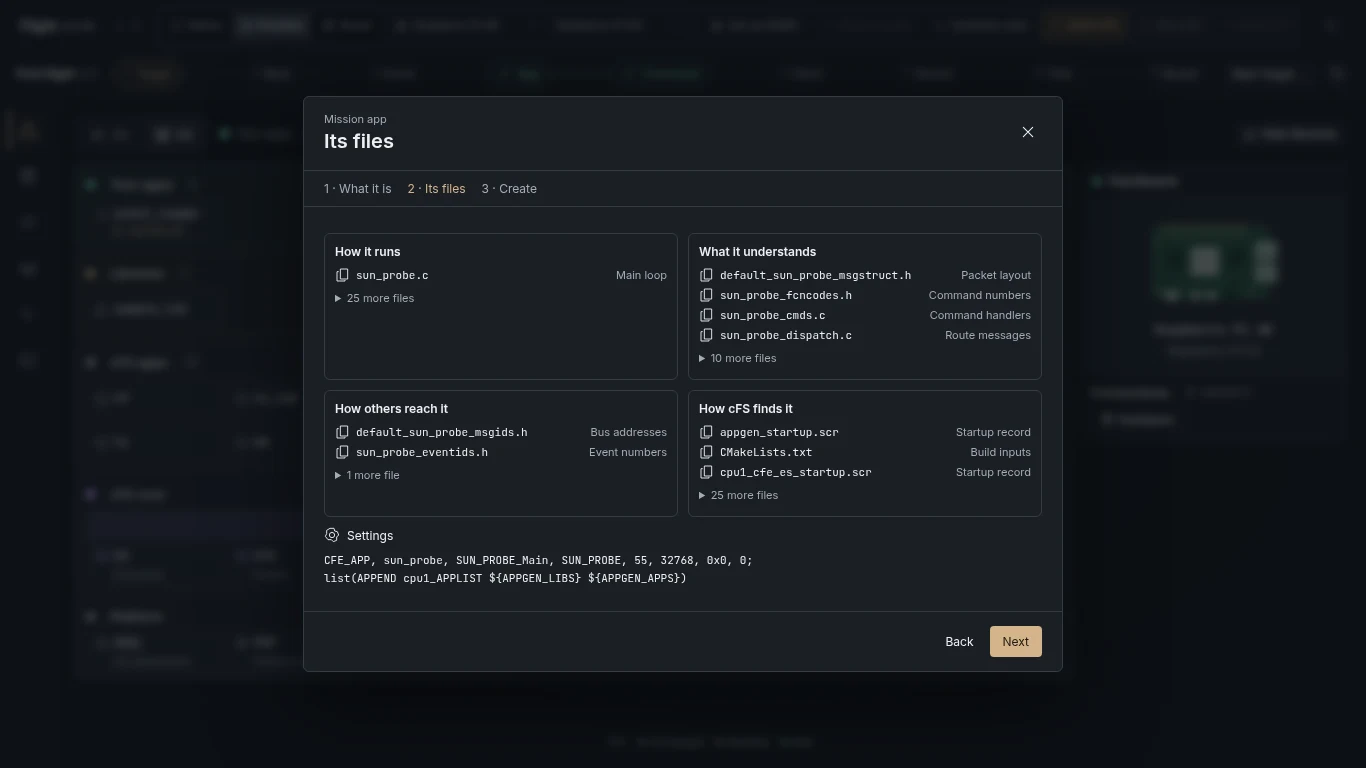
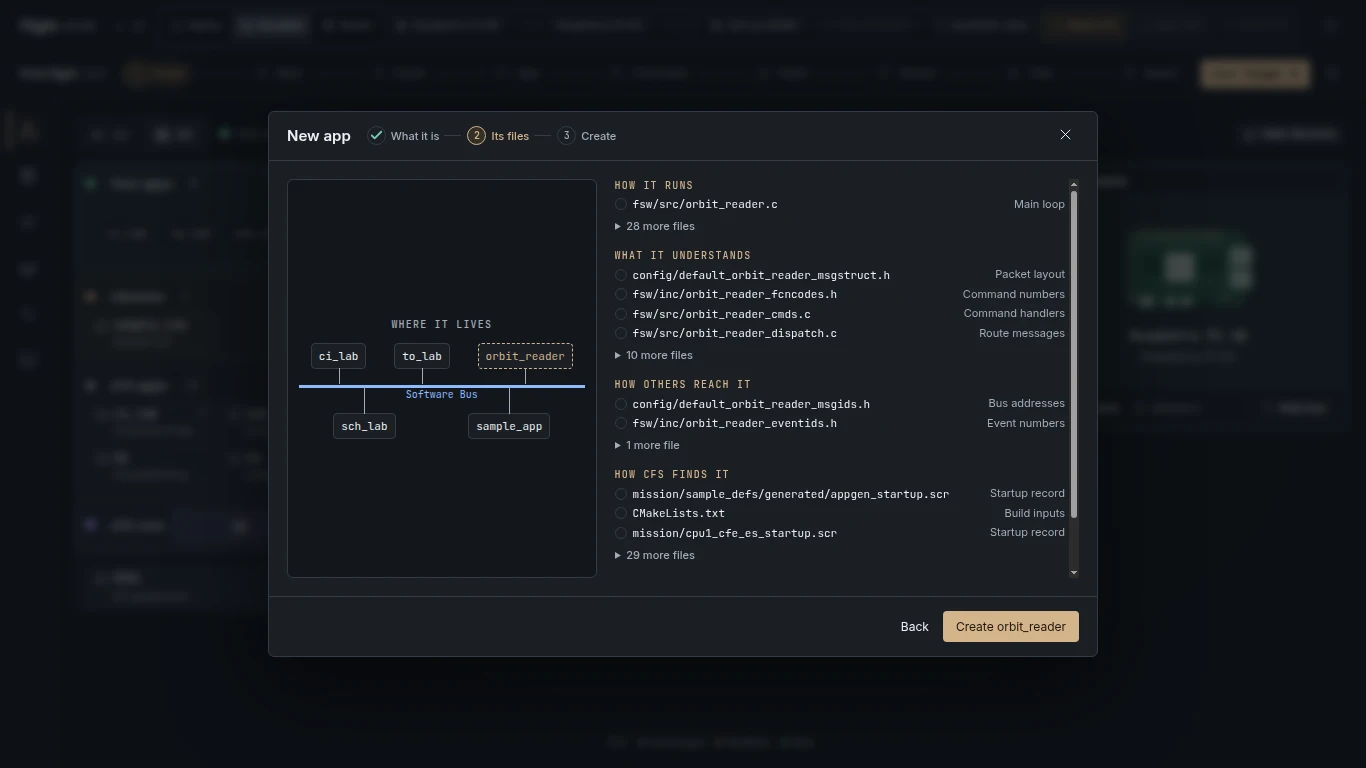
Keep the mission bus visible through the three-step app wizard

diff --git a/interface/static/architecture.css b/interface/static/architecture.css
@@ -71,26 +71,62 @@
 .arch-tabs button[aria-pressed=true]{color:var(--fs-accent);border-color:var(--fs-accent)}
 .tree-git{margin-left:auto;padding:0 6px;font:600 var(--fs-caption) var(--mono)}.tree-git.new{color:var(--fs-success)}.tree-git.modified{color:var(--fs-accent)}
 .architecture-detail{border:0}
-.app-wizard {width:min(760px,94vw);max-height:calc(100dvh - 36px);padding:0;background:var(--fs-panel);color:var(--fs-text)}
-.app-wizard form{display:flex;flex-direction:column;max-height:calc(100dvh - 40px)}.app-wizard header,.app-wizard footer{display:flex;align-items:center;padding:14px 20px;gap:10px;margin:0;border:0}
-.app-wizard header{justify-content:space-between}.app-wizard h2{font:600 var(--fs-title) var(--fs-sans);margin:3px 0}.app-wizard h3{font:600 var(--fs-label) var(--fs-sans);margin:0 0 8px}
-.app-wizard small{color:var(--fs-muted);font-size:var(--fs-caption)}.app-wizard svg,.empty-apps svg{width:16px;height:16px;flex:none}
-.wizard-steps{display:flex;gap:16px;padding:10px 20px;margin:0;border-block:1px solid var(--fs-line);list-style:none;color:var(--fs-muted)}.wizard-steps [aria-current]{color:var(--fs-accent)}
-.wizard-content{padding:16px 20px;min-height:0;overflow:auto}.wizard-content label{font:500 var(--fs-label) var(--fs-sans);margin:12px 0 2px}
-.wizard-content input{width:100%;height:34px}.app-bus-picture{padding:16px;display:grid;gap:12px;border:1px solid var(--fs-line);border-radius:var(--fs-radius-card);background:var(--fs-bg);text-align:center}
-.app-bus-picture>div{display:flex;justify-content:center;gap:14px}.app-bus-picture code,.empty-apps code,.wizard-mids code{padding:5px 9px;border:1px solid var(--fs-line);border-radius:var(--fs-radius-control);background:var(--fs-panel);font:var(--fs-caption) var(--fs-mono)}
-.app-bus-picture code{position:relative;min-width:65px}.app-bus-picture code:after{content:'';position:absolute;left:50%;height:12px;border-left:1px solid var(--fs-line);top:100%}.app-bus-picture div:last-child code:after{top:auto;bottom:100%}
-.app-bus-picture strong{display:flex;align-items:center;justify-content:center;gap:6px;background:var(--fs-code-bg);color:var(--fs-code);border:1px solid var(--fs-line);border-radius:var(--fs-radius-control);padding:7px}
-.app-slot,.empty-apps .slot{border:1px dashed var(--fs-accent)!important;color:var(--fs-accent)}.app-slot.written{border-style:solid!important;color:var(--fs-success);animation:fs-pop .3s}
-.wizard-facts,.wizard-mids,.empty-apps{display:flex;gap:9px;align-items:center;flex-wrap:wrap}.wizard-facts{justify-content:space-around;padding:16px 0}.wizard-facts span{display:flex;gap:6px;align-items:center}
-.wizard-files{display:grid;grid-template-columns:1fr 1fr;gap:10px;margin-block:10px}.wizard-files section{padding:10px;border:1px solid var(--fs-line);border-radius:var(--fs-radius-card);min-width:0}
-.wizard-file{display:flex;gap:5px;align-items:center;margin:4px 0;min-width:0}.wizard-file code{font:var(--fs-caption) var(--fs-mono);overflow:hidden;text-overflow:ellipsis}.wizard-file small{margin-left:auto;white-space:nowrap}.wizard-file .fs-tick{color:var(--fs-success)}
-.wizard-records{display:grid;gap:4px;margin-block:10px}.wizard-records code{font:var(--fs-caption) var(--fs-mono);overflow-wrap:anywhere}.wizard-settings summary{cursor:pointer;display:flex;align-items:center;gap:7px}
-.wizard-settings>div{display:grid;grid-template-columns:repeat(4,1fr);gap:8px}.app-wizard footer{justify-content:flex-end;border-top:1px solid var(--fs-line)}.app-wizard output{margin-right:auto;color:var(--fs-danger)}
-.empty-apps{padding:8px 0}.empty-apps .primary{margin-left:auto}.empty-apps .slot,body[data-journey-step=app] .empty-apps .primary{animation:fs-wait 1.8s ease-in-out infinite}
-@media(max-width:620px){.wizard-files{grid-template-columns:1fr}.wizard-settings>div{grid-template-columns:repeat(2,1fr)}.wizard-file small{display:none}}
-
-.wizard-more summary{cursor:pointer;color:var(--fs-muted);font-size:var(--fs-caption);padding-block:4px}
+.app-wizard {width:min(830px,94vw);max-width:94vw;max-height:92dvh;padding:0;color:var(--fs-text);background:var(--fs-panel);border:1px solid var(--fs-line);border-radius:var(--fs-radius-card)}
+.app-wizard form {display:flex;flex-direction:column;max-height:91dvh}
+.app-wizard header,.app-wizard footer {display:flex;align-items:center;gap:16px;padding:14px 18px;margin:0}
+.app-wizard header {border-bottom:1px solid var(--fs-line)}
+.app-wizard h2 {margin:0;font:600 var(--fs-heading) var(--fs-sans)}
+.app-wizard header button {margin-left:auto}
+.app-wizard svg,.empty-apps svg {width:15px;height:15px;flex:none}
+.wizard-steps {display:flex;align-items:center;gap:6px;padding:0;margin:0;list-style:none;color:var(--fs-muted);font:500 var(--fs-caption) var(--fs-sans)}
+.wizard-steps li {display:flex;align-items:center;gap:5px}
+.wizard-steps li:not(:last-child)::after {content:'';width:17px;border-top:1px solid var(--fs-line)}
+.wizard-steps b {width:19px;height:19px;display:grid;place-items:center;border:1px solid var(--fs-line);border-radius:var(--fs-radius-pill);font:500 var(--fs-small) var(--fs-mono)}
+.wizard-steps li[aria-current] {color:var(--fs-accent)}
+.wizard-steps li[aria-current] b {border-color:currentColor;background:var(--fs-accent-bg)}
+.wizard-steps li.done b,.wizard-file .fs-tick, .app-wizard output .fs-tick {color:var(--fs-success)}
+.wizard-content {display:grid;grid-template-columns:minmax(230px,.8fr) minmax(0,1.2fr);gap:18px;min-height:0;padding:18px;overflow:hidden}
+.wizard-content label {display:grid;gap:6px;margin:0;font:500 var(--fs-label) var(--fs-sans)}
+.wizard-content input {width:100%;height:34px;margin:0}
+.app-bus-picture {margin:0;display:flex;align-items:center;justify-content:center;flex-direction:column;gap:12px;min-height:180px;align-self:stretch;padding:16px 11px;background:var(--fs-bg);border:1px solid var(--fs-line);border-radius:var(--fs-radius-card)}
+.app-bus-picture figcaption {color:var(--fs-muted);font:500 var(--fs-small) var(--fs-mono);letter-spacing:.12em;text-transform:uppercase}
+.bus-drawing {width:100%;max-width:340px;display:grid}
+.bus-top,.bus-bottom {display:flex;justify-content:space-around;align-items:center;gap:4px}
+.bus-drawing code,.empty-apps code,.wizard-mids code {font:var(--fs-caption) var(--fs-mono);border:1px solid var(--fs-line);border-radius:var(--fs-radius-control);background:var(--fs-panel);padding:5px 7px}
+.bus-drawing code {max-width:48%;min-width:0;overflow-wrap:anywhere;position:relative;text-align:center}
+.bus-drawing code::after {content:'';position:absolute;left:50%;height:16px;border-left:1px solid var(--fs-muted);top:100%}
+.bus-bottom code::after {top:auto;bottom:100%;height:28px}
+.bus-rail {margin:16px 0 12px;border-top:3px solid var(--fs-blue);font:var(--fs-small)/13px var(--fs-mono);color:var(--fs-blue);text-align:center}
+.bus-rail span {background:var(--fs-bg);position:relative;z-index:1;padding:0 5px}
+.bus-drawing .app-slot,.empty-apps .slot {border:1px dashed var(--fs-accent);color:var(--fs-accent)}
+.bus-drawing .app-slot.written {border:1px solid var(--fs-success);color:var(--fs-success);animation:fs-pop .3s}
+.wizard-intro,.wizard-facts {display:grid;align-content:center;gap:11px}
+.wizard-intro label {margin-top:4px}
+.wizard-facts span,.wizard-facts i {display:flex;align-items:center;gap:9px}
+.wizard-facts i {border:1px solid var(--fs-line);border-radius:var(--fs-radius-control);background:var(--fs-accent-bg);color:var(--fs-accent);padding:6px}
+.wizard-facts span {font:500 var(--fs-body) var(--fs-sans)}
+.wizard-review {max-height:min(52dvh,480px);overflow-y:auto;scrollbar-width:thin;padding-right:4px}
+.wizard-files {display:grid;gap:12px}
+.wizard-files h3 {margin:0 0 4px;text-transform:uppercase;font:500 var(--fs-small) var(--fs-mono);letter-spacing:.12em;color:var(--fs-accent)}
+.wizard-file {display:flex;align-items:center;gap:6px;margin:3px 0;line-height:1.5}
+.wizard-file code {font:var(--fs-caption) var(--fs-mono);white-space:nowrap;overflow:hidden;text-overflow:ellipsis;direction:rtl;text-align:left}
+.wizard-file small {margin-left:auto;white-space:nowrap;font-size:var(--fs-caption);color:var(--fs-muted)}
+.wizard-file i {width:12px;height:12px;border:1px solid var(--fs-line);border-radius:var(--fs-radius-pill);flex:none}
+.wizard-more summary,.wizard-settings summary {cursor:pointer;font:500 var(--fs-caption) var(--fs-sans);color:var(--fs-muted);padding:4px 0}
+.wizard-settings {border-top:1px solid var(--fs-line);margin-top:12px}
+.wizard-settings summary {display:flex;align-items:center;gap:7px}
+.wizard-settings>div {display:grid;grid-template-columns:1fr 1fr;gap:8px;margin-bottom:8px}
+.wizard-records {display:grid;gap:4px;color:var(--fs-muted)}
+.wizard-records code {font:var(--fs-small)/1.5 var(--fs-mono);overflow-wrap:anywhere}
+.wizard-mids {display:flex;flex-wrap:wrap;gap:4px;justify-content:center}
+.wizard-mids code {color:var(--fs-success)}
+.app-wizard footer {border-top:1px solid var(--fs-line);justify-content:flex-end;gap:8px}
+.app-wizard output {display:flex;align-items:center;gap:5px;min-width:0;margin-right:auto;color:var(--fs-success);font:500 var(--fs-label) var(--fs-mono)}
+.app-wizard output[role=alert] {color:var(--fs-danger)}
+.empty-apps {display:flex;align-items:center;gap:8px;flex-wrap:wrap;padding:12px;border:1px dashed var(--fs-line);border-radius:var(--fs-radius-card);margin-top:8px}
+.empty-apps .primary {margin-left:auto;display:flex;align-items:center;gap:6px}
+.empty-apps .slot,body[data-journey-step=app] .empty-apps .primary {animation:fs-wait 1.8s ease-in-out infinite}
+@media(max-width:620px){.wizard-content {grid-template-columns:1fr;overflow-y:auto}.app-bus-picture {min-height:150px}.wizard-review {overflow:visible;max-height:none}.wizard-steps li:not(:last-child)::after {display:none}.app-wizard header {gap:9px}}
 
 /* Mission overview and layer selection */
 .mission-map {
@@ -215,7 +251,7 @@
 .mission-map .map-heading .map-library-toggle {margin-left:auto}
 .mission-map .map-legend {flex:none;margin:6px 0 0;font-size:var(--fs-small);align-items:center}
 .mission-map .map-legend span:first-child {font-family:var(--fs-mono)}
-.mission-map .map-columns {flex:1;min-height:0;width:100%;max-width:none;gap:12px;grid-template-columns:minmax(0,1fr) clamp(185px,21%,320px);align-content:start}
+.mission-map .map-columns {flex:1;min-height:0;width:100%;max-width:none;gap:12px;grid-template-columns:minmax(0,1fr) clamp(200px,25%,350px);align-content:start}
 .mission-map .map-software {
   display:grid;align-content:start;min-height:0;grid-template-columns:minmax(0,1fr);gap:10px;
 }
@@ -248,7 +284,28 @@
 .map-pager output {font:var(--fs-small) var(--fs-mono);color:var(--fs-muted)}
 .mission-map .map-hardware {min-height:0;max-height:100%;display:flex;flex-direction:column}
 .mission-map .map-panel-head {min-height:32px;padding:6px 11px}
-.mission-map .map-computer {padding:14px 8px;gap:4px}
+.mission-map .map-computer {padding:20px 8px;gap:4px;background:color-mix(in srgb,var(--fs-success) 9%,var(--fs-surface))}
+.mission-map .map-hardware {border-color:color-mix(in srgb,var(--fs-success) 36%,var(--fs-line))}
+.mission-map .map-group-mission {--group-color:var(--fs-success)}
+.mission-map .map-group-library {--group-color:var(--fs-accent)}
+.mission-map .map-core {--group-color:var(--fs-code)}
+.mission-map :is(.map-group-mission,.map-group-library,.map-core) {background:color-mix(in srgb,var(--group-color) 5%,var(--fs-panel));border-color:color-mix(in srgb,var(--group-color) 32%,var(--fs-line))}
+.mission-map .map-group-library .map-tile {background:color-mix(in srgb,var(--fs-accent) 8%,var(--fs-panel))}
+.mission-map .map-group-platform .map-grid {grid-template-columns:repeat(3,minmax(0,1fr))}
+.mission-map .map-module-open small {display:block;overflow:hidden;text-overflow:ellipsis;white-space:nowrap;max-width:100%;text-align:left}
+.mission-map .map-module:has(.map-dependencies) small {display:none}
+.mission-map .module-lock {position:absolute;top:4px;right:5px;color:var(--fs-muted);display:flex}
+.mission-map .module-lock svg {width:10px;height:10px}
+@container mission-map (min-width:830px) and (min-height:470px) {
+ .mission-map .map-software>.map-core {display:flex;align-items:center;gap:7px;padding-block:9px}
+ .mission-map .map-core .map-group-head {flex:none}
+ .mission-map .map-core .map-bus {flex:.9;margin:0}
+ .mission-map .map-core .map-grid:not(.map-bus) {flex:4.6;grid-template-columns:repeat(5,minmax(0,1fr));margin:0}
+ .mission-map .map-core .map-tile {height:35px;min-height:0;align-items:center;justify-content:center;gap:2px}
+ .mission-map .map-core .map-tile small,.mission-map .map-core .map-tile-title>svg {display:none}
+ .mission-map .map-group-platform {border:none;background:none;padding:0}
+ .mission-map .map-group-platform .map-group-head {display:none}
+}
 .mission-map .map-peripherals {min-height:0;padding:8px 10px;overflow:auto;overscroll-behavior:contain}
 .mission-map .map-peripherals .map-group-head {flex-wrap:wrap}
 .mission-map .map-device-row {display:flex;align-items:center;justify-content:space-between;padding:5px 0}

diff --git a/interface/static/app-wizard.js b/interface/static/app-wizard.js
@@ -18,12 +18,18 @@ function fileRole(path, name) {
   return [3,file.endsWith('.json')?'Mission settings':'Project files',false];
 }
 
-export function busDiagram(workspace, name, saved, esc) {
+const tick = '<svg class="fs-tick" viewBox="0 0 16 16" aria-label="Written"><path pathLength="1" d="m3 8 3 3 7-7"/></svg>';
+
+export function busDiagram(workspace, name, saved, esc, mids={}) {
   const enabled=new Set(workspace.mission.enabled);
-  const peers=['ci_lab','to_lab','sch_lab','sample_app'].filter(n=>enabled.has(n));
-  const node=n=>'<code>'+esc(n)+'</code>';
-  return '<div class="app-bus-picture"><div>'+peers.slice(0,2).map(node).join('')+'</div><strong>'+icon('workflow')+
-    'Software Bus</strong><div>'+peers.slice(2).map(node).join('')+'<code class="app-slot '+(saved?'written':'')+'" data-app-slot>'+esc(name||'Your app')+'</code></div></div>';
+  const nodes=names=>names.filter(n=>enabled.has(n)).map(n=>'<code>'+esc(n)+'</code>').join('');
+  const addresses=Object.entries(mids).map(([key,value])=>
+    '<code>'+esc(key)+' · 0x'+Number(value).toString(16).toUpperCase()+'</code>').join('');
+  return '<figure class="app-bus-picture"><figcaption>Where it lives</figcaption>'+
+    '<div class="bus-drawing"><div class="bus-top">'+nodes(['ci_lab','to_lab'])+
+    '<code class="app-slot '+(saved?'written':'')+'" data-app-slot>'+esc(name||'Your app')+'</code></div>'+
+    '<div class="bus-rail"><span>Software Bus</span></div><div class="bus-bottom">'+nodes(['sch_lab','sample_app'])+
+    '</div></div>'+(addresses?'<div class="wizard-mids">'+addresses+'</div>':'')+'</figure>';
 }
 
 export function openAppWizard({initialName='',workspace,api,esc,refresh,onCommand,requireSaved}) {
@@ -33,11 +39,15 @@ export function openAppWizard({initialName='',workspace,api,esc,refresh,onComman
   modal.className='app-wizard';modal.setAttribute('aria-labelledby','wizard-title');
   let step=0,name=initialName,draft=null,settings={},written=null,busy=false;
   const titles=['What it is','Its files','Create'];
+  const facts=[['cpu','Its own task'],['workflow','Talks through the bus'],['link','Has bus addresses']];
+  const numbers=[['priority','Priority'],['stack_size','Stack · bytes'],['wakeup_hz','Wakeup · Hz'],['hk_hz','Housekeeping · Hz']];
+
   function files() {
     const records=Object.keys(draft.files).map(path=>({path,role:fileRole(path,name)}));
     function row({path,role}) {
-      const mark=written?.has(path)?'<svg class="fs-tick" viewBox="0 0 16 16" aria-label="Written"><path pathLength="1" d="m3 8 3 3 7-7"/></svg>':icon('files');
-      return '<div class="wizard-file" title="'+esc(path)+'">'+mark+'<code>'+esc(path.split('/').at(-1))+'</code><small>'+role[1]+'</small></div>';
+      const mark=written?.has(path)?tick:'<i aria-hidden="true"></i>';
+      const prefix='mission/apps/'+name+'/';
+      return '<div class="wizard-file" title="'+esc(path)+'">'+mark+'<code>'+esc(path.startsWith(prefix)?path.slice(prefix.length):path)+'</code><small>'+role[1]+'</small></div>';
     }
     return groups.map((title,index)=>{
       const rows=records.filter(record=>record.role[0]===index);
@@ -46,51 +56,60 @@ export function openAppWizard({initialName='',workspace,api,esc,refresh,onComman
         ' more '+(more.length===1?'file':'files')+'</summary>'+more.map(row).join('')+'</details>':'')+'</section>';
     }).join('');
   }
+
   function render(){
-    const facts=[['clock','Its own task'],['workflow','Talks through the bus'],['link','Has bus addresses']];
-    const numbers=[['priority','Priority'],['stack_size','Stack · bytes'],['wakeup_hz','Wakeup · Hz'],['hk_hz','Housekeeping · Hz']];
-    modal.innerHTML='<form><header><div><small>Mission app</small><h2 id="wizard-title">'+titles[step]+'</h2></div><button type="button" data-close aria-label="Close">'+icon('close')+'</button></header>'+
-      '<ol class="wizard-steps">'+titles.map((t,i)=>'<li '+(i===step?'aria-current="step"':'')+'>'+String(i+1)+' · '+t+'</li>').join('')+'</ol><div class="wizard-content">'+
-      (step===0?busDiagram(workspace,name,false,esc)+'<div class="wizard-facts">'+facts.map(([g,t])=>'<span>'+icon(g)+t+'</span>').join('')+'</div>'+
-       '<label>App name<input name="app_name" autocomplete="off" required pattern="[a-z][a-z0-9]*(_[a-z0-9]+)*" maxlength="19" placeholder="orbit_demo" value="'+esc(name)+'"></label>':
-       (step===2?busDiagram(workspace,name,!!written,esc):'')+
-       '<div class="wizard-files">'+files()+'</div>'+
-       (step===1?'<details class="wizard-settings"><summary>'+icon('settings')+'Settings</summary><div>'+
-         numbers.map(([n,t])=>'<label>'+t+'<input required type="number" name="'+n+'" min="'+(n.endsWith('_hz')?'0.000001':'0')+'" step="'+(n.endsWith('_hz')?'any':'1')+'" value="'+esc(settings[n])+'"></label>').join('')+'</div></details>':'')+
-       '<div class="wizard-records"><code>'+esc(draft.preview.startup.record)+'</code><code>'+esc(draft.preview.build.statement)+'</code></div>'+
-       (written?'<div class="wizard-mids">'+Object.entries(draft.preview.mids).map(([k,v])=>'<code>'+esc(k)+' · 0x'+Number(v).toString(16).toUpperCase()+'</code>').join('')+'</div>':''))+
-      '</div><footer><output role="alert"></output>'+(step&&!written?'<button type="button" data-back>Back</button>':'')+
-      '<button type="submit" class="primary">'+(written?'Next → add a command':step===2?'Create app':'Next')+'</button></footer></form>';
-    if(step===0)modal.querySelector('input').focus();
+    const steps=titles.map((title,i)=>{
+      const done=i<step || !!written;
+      return '<li '+(i===step?'aria-current="step"':'')+' class="'+(done?'done':'')+'"><b>'+ (done?tick:(i+1))+'</b>'+title+'</li>';
+    }).join('');
+    const info='<div class="wizard-intro"><div class="wizard-facts">'+facts.map(([glyph,title])=>
+      '<span><i>'+icon(glyph)+'</i>'+title+'</span>').join('')+'</div><label>Name<input name="app_name" autocomplete="off" spellcheck="false" required pattern="[a-z][a-z0-9]*(_[a-z0-9]+)*" maxlength="19" placeholder="orbit_demo" value="'+esc(name)+'"></label></div>';
+    const options=step===1?'<details class="wizard-settings"><summary>'+icon('settings')+'Settings</summary><div>'+
+      numbers.map(([n,t])=>'<label>'+t+'<input required type="number" name="'+n+'" min="'+(n.endsWith('_hz')?'0.000001':'0')+'" step="'+(n.endsWith('_hz')?'any':'1')+'" value="'+esc(settings[n])+'"></label>').join('')+'</div></details>':'';
+    const review=draft?'<div class="wizard-review"><div class="wizard-files">'+files()+'</div>'+options+'<div class="wizard-records"><code>'+
+      esc(draft.preview.startup.record)+'</code><code>'+esc(draft.preview.build.statement)+'</code></div></div>':'';
+    modal.innerHTML='<form><header><h2 id="wizard-title">New app</h2><ol class="wizard-steps">'+steps+'</ol>'+
+      '<button type="button" data-close aria-label="Close" '+(busy?'disabled':'')+'>'+icon('close')+'</button></header>'+
+      '<div class="wizard-content">'+busDiagram(workspace,name,!!written,esc,written?draft.preview.mids:{})+(step===0?info:review)+'</div>'+
+      '<footer><output role="status">'+(written?tick+' '+esc(name)+' on the bus':'')+'</output>'+
+      (step===1?'<button type="button" data-back>Back</button>':'')+'<button type="submit" class="primary" '+(busy?'disabled':'')+'>'+
+      (written?'Next → add a command':step===2?'Creating…':step===1?'Create '+esc(name):'See its files →')+'</button></footer></form>';
   }
+
   modal.oninput=e=>{if(e.target.name==='app_name'){name=e.target.value;modal.querySelector('[data-app-slot]').textContent=name||'Your app';}};
   modal.onclick=e=>{
     if(busy)return;
     if(e.target.closest('[data-close]'))modal.close();
-    if(e.target.closest('[data-back]')){step--;render();}
+    if(e.target.closest('[data-back]')){step=0;render();modal.querySelector('input').focus();}
   };
   modal.oncancel=e=>{if(busy)e.preventDefault();};
   modal.onclose=()=>modal.remove();
   modal.onsubmit=async e=>{
     e.preventDefault();if(busy)return;
     if(written){modal.close();onCommand(name);return;}
-    const form=e.target, output=form.querySelector('output');
-    const controls=[...form.querySelectorAll('button,input')];for(const control of controls)control.disabled=true;
-    output.textContent='';busy=true;
-    try{
+    const form=e.target;
+    busy=true;form.querySelector('[type=submit]').disabled=true;
+    try {
       requireSaved();
-      if(step<2){
-        if(step===1)settings=Object.fromEntries(Object.keys(settings).map(k=>[k,Number(form.elements[k].value)]));
+      if(step===0){
         draft=await api('mission/draft',{kind:'app',mode:'create',name,settings,expected_hash:revision});
-        settings={...draft.draft.settings};step++;
+        settings={...draft.draft.settings};step=1;
       }else{
+        const proposed=Object.fromEntries(Object.keys(settings).map(k=>[k,Number(form.elements[k].value)]));
+        if(Object.keys(proposed).some(k=>proposed[k]!==settings[k])){
+          draft=await api('mission/draft',{kind:'app',mode:'create',name,settings:proposed,expected_hash:revision});
+          settings={...draft.draft.settings};
+        }
+        step=2;render();
         const result=await api('mission/save',{...draft.draft,expected_hash:draft.expected_hash,plan_hash:draft.plan_hash});
         written=new Set(result.changed);
         await refresh(result.changed,result.deleted);
       }
-      render();
-    }catch(error){if(written)render();modal.querySelector('output').textContent=error.message;}
-    finally{busy=false;for(const control of controls)control.disabled=false;}
+      busy=false;render();
+    }catch(error){
+      busy=false;if(step===2&&!written)step=1;
+      render();const output=modal.querySelector('output');output.setAttribute('role','alert');output.textContent=error.message;
+    }
   };
-  document.body.append(modal);render();modal.showModal();modal.querySelector('input')?.focus();
+  document.body.append(modal);render();modal.showModal();modal.querySelector('input').focus();
 }

diff --git a/interface/static/mission-diagram.js b/interface/static/mission-diagram.js
@@ -45,7 +45,7 @@ export function moduleGroups(workspace) {
   }
   return {
     mission: {title: 'Your apps', kind: 'app', create: true, modules: apps.filter(app => app.managed)},
-    cfs: {title: 'cFS apps', kind: 'app', create: false, modules: apps.filter(app => !app.managed)},
+    cfs: {title: 'cFS apps', kind: 'app', create: false, modules: apps.filter(app => !app.managed).sort((a,b)=>Number(!!b.required)-Number(!!a.required))},
     library: {title: 'Libraries', kind: 'library', create: true, modules: [...libraries.values()]},
   };
 }
@@ -81,7 +81,8 @@ function moduleTile(item, group, state, esc) {
   return `<article class="map-tile map-module change-${status}" data-mission-block="${name}" data-flat-id="${library ? 'library' : 'app'}:${name}">
     <button class="map-module-open" ${library ? 'data-arch-library' : 'data-arch-app'}="${name}" title="Open ${name}">
       <span class="map-tile-title">${icon(library ? 'files' : item.managed ? 'code' : 'cube')}<strong>${name}</strong></span>
-      ${disabled ? '<small>Startup disabled</small>' : ''}
+      ${disabled ? '<small>Startup disabled</small>' : item.title ? '<small title="'+esc(item.title)+'">'+esc(item.title)+'</small>' : ''}
+      ${item.required ? '<i class="module-lock" title="Required">'+icon('lock')+'</i>' : ''}
     </button>
     ${deps.length ? `<div class="map-dependencies">${deps.map(dep => `<button data-arch-library="${esc(dep.name)}" title="Open library ${esc(dep.name)}">${icon('files')}${esc(dep.name)}</button>`).join('')}</div>` : ''}
   </article>`;
@@ -97,7 +98,7 @@ function groupSection(key, group, state, esc) {
     const enabled=new Set(state.workspace.mission.enabled);
     return '<section class="map-group map-group-mission" data-section="mission"><div class="map-group-head"><h3>Your apps<small>0</small></h3></div><div class="empty-apps">'+
       ['ci_lab','to_lab','sch_lab','sample_app'].filter(name=>enabled.has(name)).map(name=>'<code>'+esc(name)+'</code>').join('')+
-      '<code class="slot" aria-hidden="true">+</code><button class="primary" data-first-app>Create your first app</button></div></section>';
+      '<code class="slot" aria-hidden="true">+</code><button class="primary" data-first-app>'+icon('plus')+'Create your first app</button></div></section>';
   }
   return `<section class="map-group map-group-${key}" data-section="${key}" aria-label="${group.title}">
     <div class="map-group-head"><h3>${group.title}<small>${members.length}</small></h3>${pager(key)}${controls(key, group, state.missionBusy || state.missionDraft)}</div>
@@ -115,16 +116,16 @@ function hardwarePanel(state, esc, native, osName) {
   const profile = state.hardware?.profiles?.find(item => item.board === project.board && item.os === project.os);
   const boardName = profile?.board_label || catalog.name || project.board;
   const drawing = native ? `<svg class="mission-map-board-drawing" viewBox="0 0 240 155" aria-hidden="true">
-    <rect x="36" y="12" width="168" height="106" rx="5" fill="#354650" stroke="#8a9fa8"/>
-    <rect x="43" y="19" width="154" height="89" rx="2" fill="#1c2930" stroke="#57716e"/>
-    <text x="120" y="71" text-anchor="middle" stroke="none" fill="#c0d5ca" style="font-size:var(--fs-title)">${esc(osName)}</text>
-    <path d="M111 118h18v14h31v6H80v-6h31z" fill="#839b9d" stroke="none"/></svg>` : boardIllustration();
+    <rect x="36" y="12" width="168" height="106" rx="5" fill="var(--fs-raised)" stroke="var(--fs-muted)"/>
+    <rect x="43" y="19" width="154" height="89" rx="2" fill="var(--fs-bg)" stroke="var(--fs-success)"/>
+    <text x="120" y="71" text-anchor="middle" stroke="none" fill="var(--fs-text)" style="font-size:var(--fs-title)">${esc(osName)}</text>
+    <path d="M111 118h18v14h31v6H80v-6h31z" fill="var(--fs-muted)" stroke="none"/></svg>` : boardIllustration();
   const devices = project.devices || [];
   return `<section class="map-panel map-hardware" data-section="hardware" aria-label="Hardware"><header class="map-panel-head">${icon('cpu')}<h2>Hardware</h2></header>
     ${native || project.board ? `<button class="map-computer change-${native ? 'clean' : esc(state.workspace.changes?.board || 'clean')}" data-view="bench" data-inspect="board" title="Open hardware workbench">
       ${drawing}<strong>${native ? 'This computer' : esc(boardName)}</strong><small>${[osName, native && state.hardware?.native?.architecture].filter(Boolean).map(esc).join(' · ')}</small></button>` :
     '<div class="hardware-empty"><button data-choose-board>Select board</button></div>'}
-    ${!native && project.board ? `<section class="map-peripherals"><div class="map-group-head"><h3>Connections<small>${devices.length} ${devices.length===1?'sensor':'sensors'}</small></h3><button class="map-action" data-view="bench" data-inspect="board">${icon('circuit')}Hardware</button></div>
+    ${!native && project.board ? `<section class="map-peripherals"><div class="map-group-head"><h3>Connections<small>${devices.length} ${devices.length===1?'sensor':'sensors'}</small></h3>${Object.keys(missionBuses(state.workspace)).length?'<button class="map-action" data-create="device">'+icon('plus')+'Add sensor</button>':'<button class="map-action" data-add-bus>'+icon('plus')+'Add bus</button>'}</div>
       ${Object.entries(missionBuses(state.workspace)).map(([id,bus])=>`<div class="hardware-bus"><h4>${icon('link')}${esc(id)} <small>${esc(bus.device)}</small></h4>
       ${devices.filter(device=>device.bus===id).map(device => {
         const bound=(project.apps||[]).some(app=>Object.values(app.sensors||{}).includes(device.id));

diff --git a/interface/static/ui.js b/interface/static/ui.js
@@ -1,4 +1,5 @@
 const icons = {
+  'lock':'M5 10h14v11H5z M8 10V7a4 4 0 0 1 8 0v3 M12 14v3',
   'pencil':'m4 16 11-11 4 4L8 20l-5 1z M13 7l4 4',
   'link':'M10 13a5 5 0 0 0 7 0l3-3a5 5 0 0 0-7-7l-2 2 M14 11a5 5 0 0 0-7 0l-3 3a5 5 0 0 0 7 7l2-2',
   'table':'M3 3h18v18H3z M3 9h18 M9 9v12 M15 9v12 M3 15h18',

diff --git a/interface/backend/workspace.py b/interface/backend/workspace.py
@@ -18,6 +18,22 @@ import threading
 from project.flight_sources import module_directories
 
 
+def nasa_module_title(directory):
+    """Read the upstream module name from its Markdown title."""
+    readme = directory / "README.md"
+    if readme.is_symlink():
+        return ""
+    try:
+        with readme.open(encoding="utf-8") as file:
+            header = re.search(r"^#\s+(.+)$", file.read(8192), re.MULTILINE)
+    except (OSError, UnicodeError):
+        return ""
+    if not header:
+        return ""
+    title = re.sub(r"^core flight system\s*(?:\(cfs\)|:\s*framework\s*:\s*app\s*:)\s*", "", header[1], flags=re.I)
+    return re.sub(r"\s+(?:Application\s+)?\([A-Z_]+\)\s*$", "", title).strip()
+
+
 class Workspace:
     """Filesystem operations and cFS metadata, serialized against source mutations."""
 
@@ -232,6 +248,8 @@ class Workspace:
                        "entry": entry.relative_to(self.root).as_posix(), "managed": bool(manifest),
                        "built": name in installed, "enabled": name in enabled,
                        "manifest": manifest, "locations": []}
+                if not manifest:
+                    app["title"] = nasa_module_title(directory)
                 if manifest:
                     locations = generator.locations(self.root / "mission", manifest)["locations"]
                     app["locations"] = [dict(location, path="mission/" + location["path"]) for location in locations]
@@ -239,6 +257,9 @@ class Workspace:
                 app["behavior"] = summarize_application(app, recipes.get(name, {}).get("entry_point"), root=self.root)
                 apps.append(app)
             libraries = inspect_libraries(self.root, apps, self.source_index, mission)
+            for library in libraries:
+                if library["path"].startswith("cFS/"):
+                    library["title"] = nasa_module_title(self.root / library["path"])
             core_modules = []
             for module in sorted((self.root / "cFS/cfe/modules").glob("*")):
                 if (module / "CMakeLists.txt").is_file() and (module / "fsw/src").is_dir():
